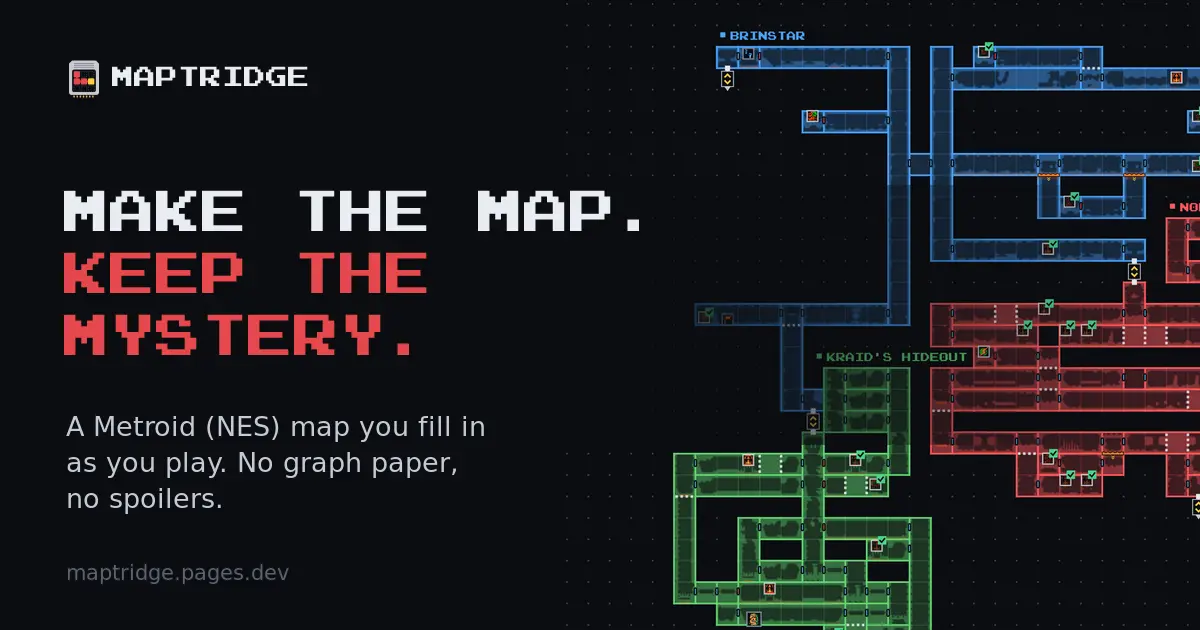
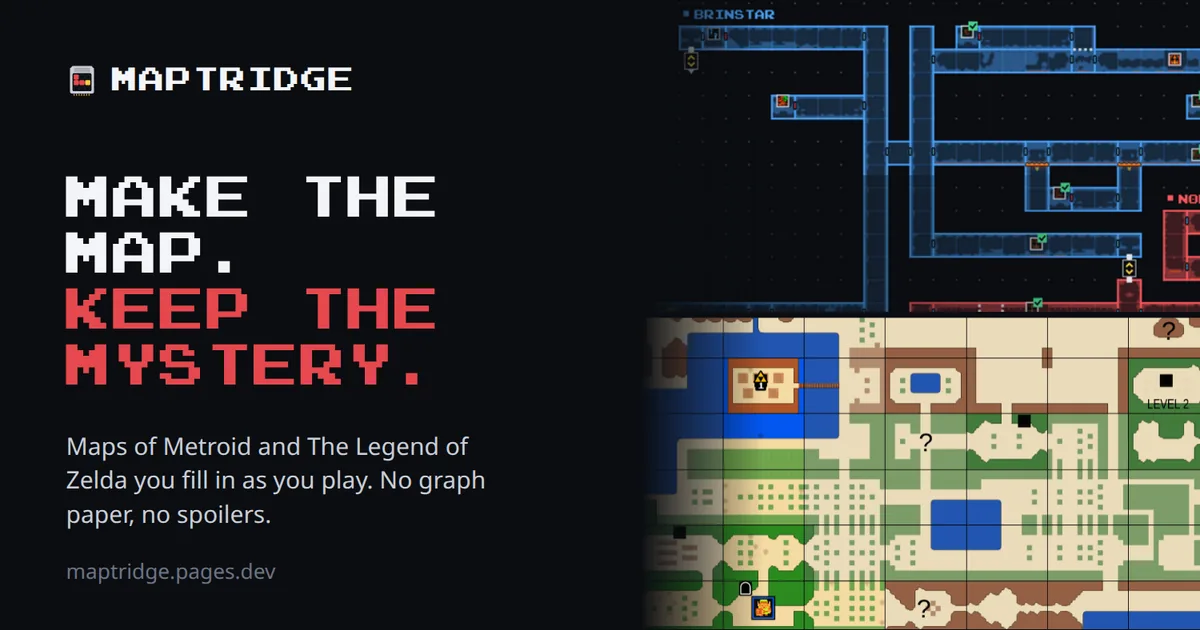
Maptridge: Zelda joins

diff --git a/index.html b/index.html
@@ -42,12 +42,12 @@
       <h2 id="built">Things I've built</h2>
       <div class="grid">
         <article class="card wide">
-          <a class="shot" href="https://maptridge.pages.dev"><img src="img/mt.webp" alt="Maptridge: a Metroid (NES) map coloured by area, filled in room by room" width="1200" height="630" loading="lazy"></a>
+          <a class="shot" href="https://maptridge.pages.dev"><img src="img/mt.webp" alt="Maptridge: a Metroid (NES) map and a Legend of Zelda (NES) map, each filled in as the player explores" width="1200" height="630" loading="lazy"></a>
           <div class="body">
             <h3><a href="https://maptridge.pages.dev">Maptridge</a></h3>
-            <p>Interactive game maps you fill in as you play, without spoilers. The first map is Metroid (NES): one click per room, the game's real screens when you zoom in, hints before spoilers, and, if you play on an emulator signed in to RetroAchievements, your achievements ticked on the map as you unlock them.</p>
+            <p>Interactive game maps you fill in as you play, without spoilers: Metroid and The Legend of Zelda (NES). One click per room or screen, the game's real screens when you zoom in, hints before spoilers, and, if you play on an emulator signed in to RetroAchievements, your achievements ticked on the map as you unlock them. Free, with no ads.</p>
             <p class="tags">TypeScript · Canvas · Cloudflare Pages · NES ROM analysis</p>
-            <p class="more"><a href="https://maptridge.pages.dev">Open the map</a><a href="https://youtu.be/dRmrtPjImUc">Watch the video</a><a href="https://github.com/JanitorHead/maptridge-feedback">Feedback</a></p>
+            <p class="more"><a href="https://maptridge.pages.dev">Open the maps</a><a href="https://youtu.be/dRmrtPjImUc">Metroid video</a><a href="https://youtu.be/i6EAiTIC6PA">Zelda video</a><a href="https://github.com/JanitorHead/maptridge-feedback">Feedback</a></p>
           </div>
         </article>
 
